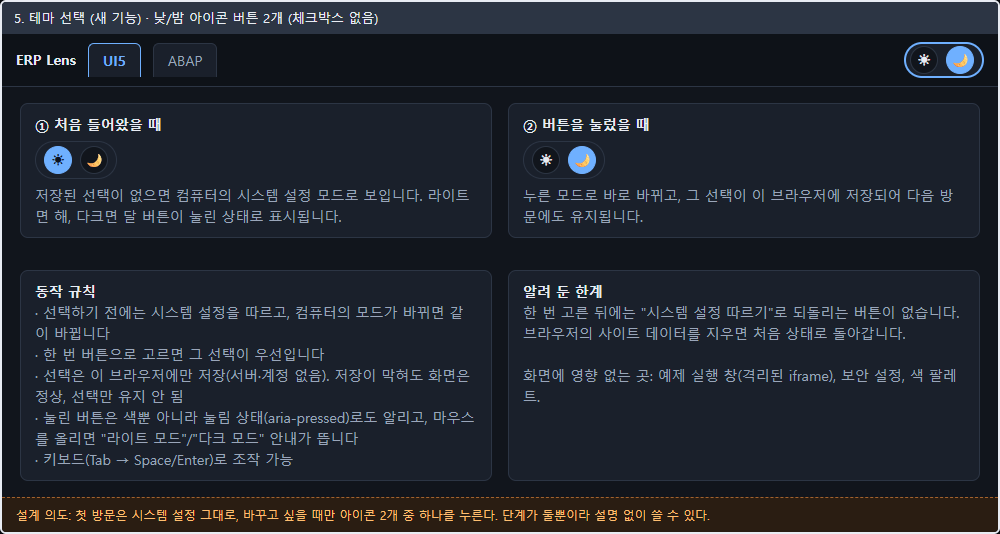
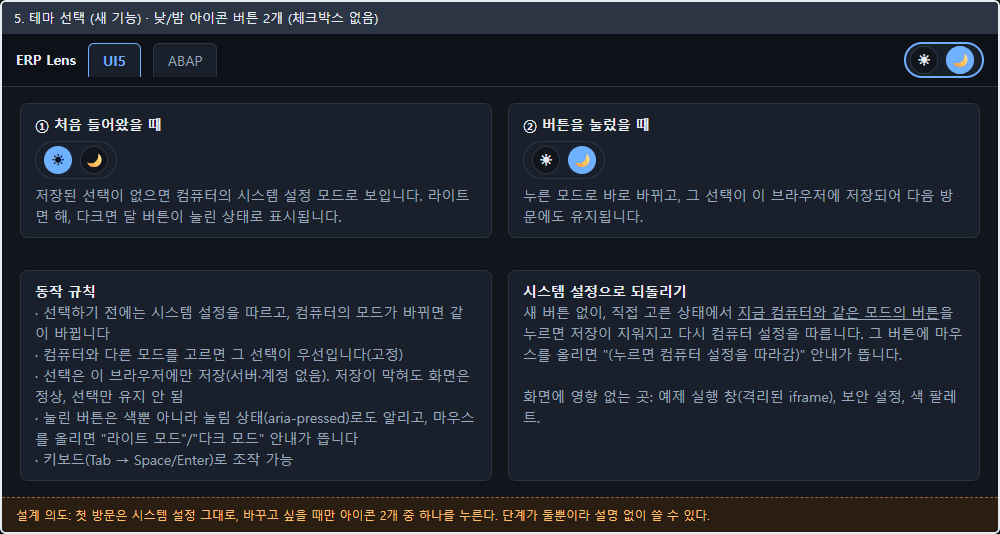
화면 모드: 컴퓨터와 같은 모드 버튼을 누르면 저장을 지우고 시스템 설정 따르기로 복귀(새 버튼 없이 알려진 한계 해결)
- domain/theme.ts nextStored, 되돌림 안내 문구, 단위 테스트 1개·E2E 4개 추가(단위 111, E2E 개발 161·CSP 빌드 162)
- 목업·문서 문구 갱신

Changed region(s): [[0.527, 0.5094, 0.961, 0.779], [0.031, 0.6292, 0.403, 0.6891]]

diff --git a/docs/mockups/screens.html b/docs/mockups/screens.html
@@ -145,8 +145,8 @@ DATA lv_name  TYPE string VALUE 'Kim'.</div>
       <div class="muted">누른 모드로 바로 바뀌고, 그 선택이 이 브라우저에 저장되어 다음 방문에도 유지됩니다.</div></div>
   </div>
   <div class="states">
-    <div class="st"><b>동작 규칙</b><div class="muted">· 선택하기 전에는 시스템 설정을 따르고, 컴퓨터의 모드가 바뀌면 같이 바뀝니다<br>· 한 번 버튼으로 고르면 그 선택이 우선입니다<br>· 선택은 이 브라우저에만 저장(서버·계정 없음). 저장이 막혀도 화면은 정상, 선택만 유지 안 됨<br>· 눌린 버튼은 색뿐 아니라 눌림 상태(aria-pressed)로도 알리고, 마우스를 올리면 "라이트 모드"/"다크 모드" 안내가 뜹니다<br>· 키보드(Tab → Space/Enter)로 조작 가능</div></div>
-    <div class="st"><b>알려 둔 한계</b><div class="muted">한 번 고른 뒤에는 "시스템 설정 따르기"로 되돌리는 버튼이 없습니다. 브라우저의 사이트 데이터를 지우면 처음 상태로 돌아갑니다.<br><br>화면에 영향 없는 곳: 예제 실행 창(격리된 iframe), 보안 설정, 색 팔레트.</div></div>
+    <div class="st"><b>동작 규칙</b><div class="muted">· 선택하기 전에는 시스템 설정을 따르고, 컴퓨터의 모드가 바뀌면 같이 바뀝니다<br>· 컴퓨터와 다른 모드를 고르면 그 선택이 우선입니다(고정)<br>· 선택은 이 브라우저에만 저장(서버·계정 없음). 저장이 막혀도 화면은 정상, 선택만 유지 안 됨<br>· 눌린 버튼은 색뿐 아니라 눌림 상태(aria-pressed)로도 알리고, 마우스를 올리면 "라이트 모드"/"다크 모드" 안내가 뜹니다<br>· 키보드(Tab → Space/Enter)로 조작 가능</div></div>
+    <div class="st"><b>시스템 설정으로 되돌리기</b><div class="muted">새 버튼 없이, 직접 고른 상태에서 <u>지금 컴퓨터와 같은 모드의 버튼</u>을 누르면 저장이 지워지고 다시 컴퓨터 설정을 따릅니다. 그 버튼에 마우스를 올리면 "(누르면 컴퓨터 설정을 따라감)" 안내가 뜹니다.<br><br>화면에 영향 없는 곳: 예제 실행 창(격리된 iframe), 보안 설정, 색 팔레트.</div></div>
   </div>
   <p class="ann">설계 의도: 첫 방문은 시스템 설정 그대로, 바꾸고 싶을 때만 아이콘 2개 중 하나를 누른다. 단계가 둘뿐이라 설명 없이 쓸 수 있다.</p>
 </section>

diff --git a/src/controller/useTheme.ts b/src/controller/useTheme.ts
@@ -1,16 +1,21 @@
 import { useCallback, useEffect, useState } from 'react';
-import { THEME_KEY, parseTheme, resolveTheme, type Theme } from '../domain/theme';
+import { THEME_KEY, nextStored, parseTheme, resolveTheme, type Theme } from '../domain/theme';
 
 const MQ = '(prefers-color-scheme: dark)';
 const readStored = (): Theme | null => { try { return parseTheme(localStorage.getItem(THEME_KEY)); } catch { return null; } };
-const writeStored = (t: Theme) => { try { localStorage.setItem(THEME_KEY, t); } catch { /* 저장 불가 환경이면 이번 방문에서만 유지 */ } };
+const writeStored = (t: Theme | null) => {
+  try { if (t) localStorage.setItem(THEME_KEY, t); else localStorage.removeItem(THEME_KEY); } catch { /* 저장 불가 환경이면 이번 방문에서만 유지 */ }
+};
 const systemDark = () => { try { return window.matchMedia(MQ).matches; } catch { return false; } };
 const apply = (t: Theme) => { document.documentElement.dataset.theme = t; };
 
 /** 첫 화면이 그려지기 전에 호출해 저장된 선택(없으면 시스템 설정)을 적용한다. 인라인 스크립트가 아니라 CSP 를 건드리지 않는다. */
 export function initTheme() { apply(resolveTheme(readStored(), systemDark())); }
 
-/** 현재 모드와 선택 함수. 고르기 전에는 시스템 설정 변화를 따라가고, 고른 뒤에는 고른 값이 우선한다. */
+/**
+ * 현재 모드와 선택 함수. 고르기 전에는 시스템 설정 변화를 따라가고, 시스템과 다른 모드를 고르면 그 선택이 우선한다.
+ * 지금 시스템과 같은 모드를 누르면 선택을 지우고 다시 시스템 설정을 따른다(pinned=false).
+ */
 export function useTheme() {
   const [stored, setStored] = useState<Theme | null>(readStored);
   const [sysDark, setSysDark] = useState<boolean>(systemDark);
@@ -23,6 +28,6 @@ export function useTheme() {
   }, []);
   const theme = resolveTheme(stored, sysDark);
   useEffect(() => { apply(theme); }, [theme]);
-  const choose = useCallback((t: Theme) => { setStored(t); writeStored(t); }, []);
-  return { theme, choose };
+  const choose = useCallback((t: Theme) => { const n = nextStored(t, sysDark); setStored(n); writeStored(n); }, [sysDark]);
+  return { theme, choose, pinned: stored !== null, system: (sysDark ? 'dark' : 'light') as Theme };
 }

diff --git a/src/shell/ThemeToggle.tsx b/src/shell/ThemeToggle.tsx
@@ -12,13 +12,17 @@ const Moon = () => (
   </svg>
 );
 
-/** 낮/밤 버튼 2개. 눌린 버튼이 지금 보이는 모드이고, 상태는 aria-pressed 로도 알린다. */
+/** 낮/밤 버튼 2개. 눌린 버튼이 지금 보이는 모드이고, 상태는 aria-pressed 로도 알린다. 직접 고른 상태에서 시스템과 같은 모드 버튼을 누르면 시스템 설정 따르기로 돌아간다. */
 export function ThemeToggle() {
-  const { theme, choose } = useTheme();
+  const { theme, choose, pinned, system } = useTheme();
+  const label = (t: 'light' | 'dark') => {
+    const name = t === 'light' ? '라이트 모드' : '다크 모드';
+    return pinned && t === system ? `${name} (누르면 컴퓨터 설정을 따라감)` : name;
+  };
   return (
     <div className="theme-toggle" role="group" aria-label="화면 모드">
-      <button type="button" className="tt-btn" id="theme-light" aria-pressed={theme === 'light'} aria-label="라이트 모드" title="라이트 모드" onClick={() => choose('light')}><Sun /></button>
-      <button type="button" className="tt-btn" id="theme-dark" aria-pressed={theme === 'dark'} aria-label="다크 모드" title="다크 모드" onClick={() => choose('dark')}><Moon /></button>
+      <button type="button" className="tt-btn" id="theme-light" aria-pressed={theme === 'light'} aria-label={label('light')} title={label('light')} onClick={() => choose('light')}><Sun /></button>
+      <button type="button" className="tt-btn" id="theme-dark" aria-pressed={theme === 'dark'} aria-label={label('dark')} title={label('dark')} onClick={() => choose('dark')}><Moon /></button>
     </div>
   );
 }

diff --git a/test/theme.test.ts b/test/theme.test.ts
@@ -19,3 +19,11 @@ test('저장 키는 다른 저장값(버전)과 겹치지 않는다', () => {
   assert.equal(THEME_KEY, 'ui5lens.theme');
   assert.notEqual(THEME_KEY, 'ui5lens.version');
 });
+
+test('저장할 값: 시스템과 다른 모드는 고정, 시스템과 같은 모드는 저장 삭제(시스템 따르기로 복귀)', async () => {
+  const { nextStored } = await import('../src/domain/theme.ts');
+  assert.equal(nextStored('light', true), 'light');  // 시스템 다크에서 라이트 → 고정
+  assert.equal(nextStored('dark', false), 'dark');   // 시스템 라이트에서 다크 → 고정
+  assert.equal(nextStored('dark', true), null);      // 시스템과 같음 → 복귀
+  assert.equal(nextStored('light', false), null);
+});

diff --git a/src/domain/theme.ts b/src/domain/theme.ts
@@ -9,3 +9,9 @@ export const parseTheme = (v: unknown): Theme | null => (v === 'light' || v === 
 
 /** 고른 값이 있으면 그것, 없으면 시스템 설정을 따른다. */
 export const resolveTheme = (stored: Theme | null, systemDark: boolean): Theme => stored ?? (systemDark ? 'dark' : 'light');
+
+/**
+ * 버튼을 눌렀을 때 저장할 값. 시스템과 다른 모드를 고르면 그 값을 저장하고(고정),
+ * 지금 시스템과 같은 모드를 고르면 null(저장 삭제 = 시스템 설정 따르기로 되돌림).
+ */
+export const nextStored = (choice: Theme, systemDark: boolean): Theme | null => (choice === (systemDark ? 'dark' : 'light') ? null : choice);

diff --git a/README.md b/README.md
@@ -4,7 +4,7 @@
 
 **바로 써 보기: https://ui5-lens-ten.vercel.app/** (설치 없이 브라우저에서 열림)
 
-> 화면은 컴퓨터의 라이트·다크 설정을 따라가고, 오른쪽 위 해·달 버튼으로 직접 바꿀 수 있습니다. 학생 프로젝트입니다. 한국어 설명은 AI 가 만든 **초안**이라 틀릴 수 있고, 화면에 그 표시가 붙어 있습니다. 항목마다 공식 원문 링크가 있으니 확인하며 쓰세요.
+> 화면은 컴퓨터의 라이트·다크 설정을 따라가고, 오른쪽 위 해·달 버튼으로 직접 바꿀 수 있습니다(컴퓨터와 같은 모드 버튼을 다시 누르면 컴퓨터 설정을 따릅니다). 학생 프로젝트입니다. 한국어 설명은 AI 가 만든 **초안**이라 틀릴 수 있고, 화면에 그 표시가 붙어 있습니다. 항목마다 공식 원문 링크가 있으니 확인하며 쓰세요.
 
 <picture><source media="(prefers-color-scheme: dark)" srcset="docs/assets/screens/01-home-dark.png"><img alt="첫 화면" src="docs/assets/screens/01-home.png"></picture>
 
@@ -22,7 +22,7 @@
 
 ## 어떻게 만들었나
 
-기획 → TO DO → 설계(목업) → 코드 순서를 지키고, 단위 테스트(110개)와 브라우저 자동 시험(E2E 157개)으로 확인합니다. 모두 무료 도구로 내 PC에서 돌리며 비용은 0원입니다.
+기획 → TO DO → 설계(목업) → 코드 순서를 지키고, 단위 테스트(111개)와 브라우저 자동 시험(E2E 161개)으로 확인합니다. 모두 무료 도구로 내 PC에서 돌리며 비용은 0원입니다.
 
 - 설계·목업·개발 흐름 보기: [docs/development-process.md](docs/development-process.md)
 - 테스트와 E2E를 왜, 어디서, 얼마에 쓰는지: [docs/testing.md](docs/testing.md)

diff --git a/docs/testing.md b/docs/testing.md
@@ -13,8 +13,8 @@ E2E(End-to-End)는 "처음부터 끝까지"라는 뜻입니다. 프로그램이 
 | 시험 종류 | 무엇을 확인하나 | 이 프로젝트에서 | 한계 |
 |---|---|---|---|
 | 타입 검사 | 코드의 자료형이 맞는지 | `npm run typecheck` | 화면 동작은 모름 |
-| 단위 테스트 | 함수 하나가 맞는 값을 내는지 | `npm test` (110개, 1초 이내) | 함수들이 화면에서 이어졌을 때 되는지는 모름 |
-| **E2E** | **사용자 흐름이 브라우저에서 되는지** | `npm run test:e2e` (157개, 약 40초) | 느리고, 화면이 바뀌면 같이 고쳐야 함 |
+| 단위 테스트 | 함수 하나가 맞는 값을 내는지 | `npm test` (111개, 1초 이내) | 함수들이 화면에서 이어졌을 때 되는지는 모름 |
+| **E2E** | **사용자 흐름이 브라우저에서 되는지** | `npm run test:e2e` (161개, 약 40초) | 느리고, 화면이 바뀌면 같이 고쳐야 함 |
 
 ## 왜 E2E를 쓰는가
 
@@ -33,7 +33,7 @@ E2E(End-to-End)는 "처음부터 끝까지"라는 뜻입니다. 프로그램이 
 |---|---|
 | 도구 | Playwright(`playwright-core`, 무료 오픈소스) + 이미 설치된 Microsoft Edge |
 | 실행 위치 | **내 PC만.** `npm run dev`로 서버를 띄운 뒤 `npm run test:e2e` |
-| 규모 | 157개 확인 항목, 약 40초 |
+| 규모 | 161개 확인 항목, 약 40초 |
 | 자동 실행(CI) | **아직 안 함.** GitHub Actions는 타입 검사, 단위 테스트, 빌드, `npm audit`만 실행 |
 | 인터넷 | 예제 실행 항목은 UI5 CDN 접속이 필요 |
 | 확인 범위 | 4개 UI5 모드, 멤버 상세, 실패 주입, ABAP 문법 사전·tcode 사전, 모바일 폭, CSP 위반 0건 |

diff --git a/docs/implementation-status.md b/docs/implementation-status.md
@@ -36,9 +36,9 @@
 | 검사 | 결과 | 범위 |
 | --- | --- | --- |
 | TypeScript | 통과 | 앱 및 테스트 |
-| 단위 테스트 | 80개 중 80개 통과 (2026-11-19 현재 110개) | 도메인 로직, 라우트 입력 검증, 보안 설정 일치 |
-| 브라우저 E2E (개발 서버) | 109개 중 109개 통과 (2026-11-19 현재 157개) | 4개 모드, 멤버 상세, 실패 주입, 이전 흐름 회귀 |
-| 브라우저 E2E (프로덕션 빌드 미리보기) | 110개 중 110개 통과 | 위 항목 + CSP 적용 빌드에서 위반 0건 |
+| 단위 테스트 | 80개 중 80개 통과 (2026-11-19 현재 111개) | 도메인 로직, 라우트 입력 검증, 보안 설정 일치 |
+| 브라우저 E2E (개발 서버) | 109개 중 109개 통과 (2026-11-19 현재 161개) | 4개 모드, 멤버 상세, 실패 주입, 이전 흐름 회귀 |
+| 브라우저 E2E (프로덕션 빌드 미리보기) | 111개 중 111개 통과 | 위 항목 + CSP 적용 빌드에서 위반 0건 |
 | HTML 정화기 공격 시험 | 30개 페이로드 모두 차단 | 정상 HTML 5종 보존, 대조 실험 포함 |
 | 전체 `npm run build` | 통과 | 자료 재빌드(31개 버전), 타입 검사, 단위 테스트, 번들 빌드 |
 | 의존성 취약점 (`npm audit`) | 0개 | 개발·운영 의존성 모두 |

diff --git a/docs/development-process.md b/docs/development-process.md
@@ -75,9 +75,9 @@
 | 11-10 | 6. ABAP 추가 | ABAP 기본 탭(문법 사전 33개), 이름 검색에서 ABAP 항목 안내, 앱 이름을 ERP Lens로 변경 |
 | 11-13 | 7. 구조 개편 | 상단 탭(UI5 / ABAP), tcode 사전, 개념·환경 그룹 |
 | 11-14~19 | 8. ABAP 보강 | 수업 노트 기반으로 문법 65개, tcode 15개로 확장, 모듈화 그룹, 보안 점검 강화 |
-| 11-19 | 9. 화면 모드 | 라이트·다크 선택 버튼(첫 방문은 시스템 설정), 문서 이미지를 라이트·다크 두 벌로 교체. 기획 → TO DO → 목업 → 코드 순서로 진행한 첫 기능 |
+| 11-19 | 9. 화면 모드 | 라이트·다크 선택 버튼(첫 방문은 시스템 설정, 컴퓨터와 같은 모드 버튼을 누르면 시스템 따르기로 복귀), 문서 이미지를 라이트·다크 두 벌로 교체. 기획 → TO DO → 목업 → 코드 순서로 진행한 첫 기능 |
 
-검증 숫자 (2026-11-19): 타입 검사 통과, 단위 테스트 110개 통과, E2E 157개 통과, ABAP 항목·링크 점검 80개 통과.
+검증 숫자 (2026-11-19): 타입 검사 통과, 단위 테스트 111개 통과, E2E 161개 통과, ABAP 항목·링크 점검 80개 통과.
 
 ## 5. 앞으로의 개발 순서
 
